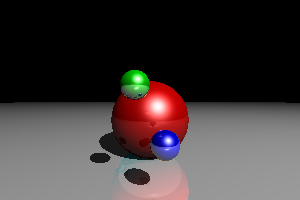
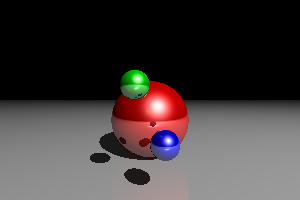
plane class implemented

diff --git a/main.py b/main.py
@@ -1,19 +1,31 @@
 import numpy as np
 import matplotlib.pyplot as plt
+import sys
+
+class vec3:
+    def __init__(self, x, y, z):
+        self.x = x
+        self.y = y
+        self.z = z
+
+class color:
+    def __init__(self, amb, dif, spec):
+        self.ambient = np.array([amb.x, amb.y, amb.z])
+        self.diffuse = np.array([dif.x, dif.y, dif.z])
+        self.specular = np.array([spec.x, spec.y, spec.z])
 
 class primitive_object:
-    def __init__(self, posx, posy, posz, ambr, ambg, ambb, difr, difg, difb, specr, specg, specb, shininess, reflection):
-        self.position = np.array([posx, posy, posz])
-        self.ambient = np.array([ambr, ambg, ambb])
-        self.diffuse = np.array([difr, difg, difb])
-        self.specular = np.array([specr, specg, specb])
+    def __init__(self, pos, color, shininess, reflection):
+        self.position = np.array([pos.x, pos.y, pos.z])
+        self.ambient = color.ambient
+        self.diffuse = color.diffuse
+        self.specular = color.specular
         self.shininess = shininess
         self.reflection = reflection
 
 class sphere(primitive_object):
-
-    def __init__(self, radius, posx, posy, posz, ambr, ambg, ambb, difr, difg, difb, specr, specg, specb, shininess, reflection):
-        super().__init__(posx, posy, posz, ambr, ambg, ambb, difr, difg, difb, specr, specg, specb, shininess, reflection)
+    def __init__(self, radius, pos, color, shininess, reflection):
+        super().__init__(pos, color, shininess, reflection)
         self.radius = radius
 
     def intersect(self, ray_origin, ray_direction):
@@ -30,19 +42,23 @@ class sphere(primitive_object):
     def calculate_normal_to_surface(self, point):
         return normalize(point - self.position)
 
+class plane(primitive_object):
+    def __init__(self, norm, pos, color, shininess, reflection):
+        super().__init__(pos, color, shininess, reflection)
+        self.normal = normalize(np.array([norm.x, norm.y, norm.z]))
+
+    def intersect(self, ray_origin, ray_direction):
+        if np.dot(self.normal, ray_direction) != 0:
+            t = np.dot((self.position - ray_origin), self.normal) / np.dot(self.normal, ray_direction)
+            if t >= 0:
+                return t
+        return None
+    
+    def calculate_normal_to_surface(self, point):
+        return self.normal
+
 def normalize(vector):
     return vector / np.linalg.norm(vector)
-
-def sphere_intersect(center, radius, ray_origin, ray_direction):
-    b = 2 * np.dot(ray_direction, ray_origin - center)
-    c = np.linalg.norm(ray_origin - center) ** 2 - radius ** 2
-    delta = b ** 2 - 4 * c
-    if delta > 0:
-        t1 = (-b + np.sqrt(delta)) / 2
-        t2 = (-b - np.sqrt(delta)) / 2
-        if t1 > 0 and t2 > 0:
-            return(min(t1, t2))
-    return None
 
 def nearest_intersection(objects, ray_origin, ray_direction):
     distances = [obj.intersect(ray_origin, ray_direction) for obj in objects]
@@ -61,14 +77,25 @@ def reflected(vector, axis):
 #based on https://medium.com/swlh/ray-tracing-from-scratch-in-python-41670e6a96f9
 width = 300
 height = 200
-max_depth = 3
+if len(sys.argv) > 1:
+    width = int(sys.argv[1])
+    height = int(sys.argv[2])
+max_depth = 2
 
+#delcare colors
+red = color(vec3(.1, 0, 0), vec3(.7, 0, 0), vec3(1, 1, 1))
+blue = color(vec3(0, .1, 0), vec3(0, .7, 0), vec3(1, 1, 1))
+green = color(vec3(0, 0, .1), vec3(0, 0, .7), vec3(1, 1, 1))
+grey = color(vec3(.1, .1, .1), vec3(.7, .7, .7), vec3(1, 1, 1))
+
+#declare objects in the scene
 objects = [
-    sphere(.5, 0, -.25, -1, .1, 0, 0, .7, 0, 0, 1, 1, 1, 100, .15),
-    sphere(.1, -.1, .1, 0, 0, .1, 0, 0, .7, 0, 1, 1, 1, 100, .5),
-    sphere(.1, .1, -.3, 0, 0, 0, .1, 0, 0, .7, 1, 1, 1, 100, .5),
-    sphere(9000-.7, 0, -9000, 0, .1, .1, .1, .7, .7, .7, 1, 1, 1, 100, .5)
+    plane(vec3(0, 1, 0), vec3(0, -.7, 0), grey, 100, .15),
+    sphere(.5, vec3(0, -.25, -1), red, 100, .5),
+    sphere(.1, vec3(-.1, .1, 0), blue, 100, .5),
+    sphere(.1, vec3(.1, -.3, 0), green, 100, .5)
 ]
+
 
 light = {"position": np.array([3, 5, 5]), "ambient": np.array([1, 1, 1]), "diffuse": np.array([1, 1, 1]), "specular": np.array([1, 1, 1])}
 
@@ -94,7 +121,7 @@ for i, y in enumerate(np.linspace(screen[1], screen[3], height)):
                 shifted_point = intersection + 1e-5 * normal_to_surface
                 intersection_to_light = light["position"] - shifted_point
 
-                _, min_distance = nearest_intersection(objects, intersection, normalize(intersection_to_light))
+                _, min_distance = nearest_intersection(objects, shifted_point, normalize(intersection_to_light))
                 intersection_to_light_distance = np.linalg.norm(intersection_to_light)
                 is_shadowed = min_distance < intersection_to_light_distance
                 # use the blinn-phong model to calculate the illumination
@@ -118,6 +145,8 @@ for i, y in enumerate(np.linspace(screen[1], screen[3], height)):
 
                 origin = shifted_point
                 direction = reflected(direction, normal_to_surface)
+            else:
+                break
 
         image[i, j] = np.clip(color, 0, 1)
     print("Progress: %d/%d" % (i + 1, height))
